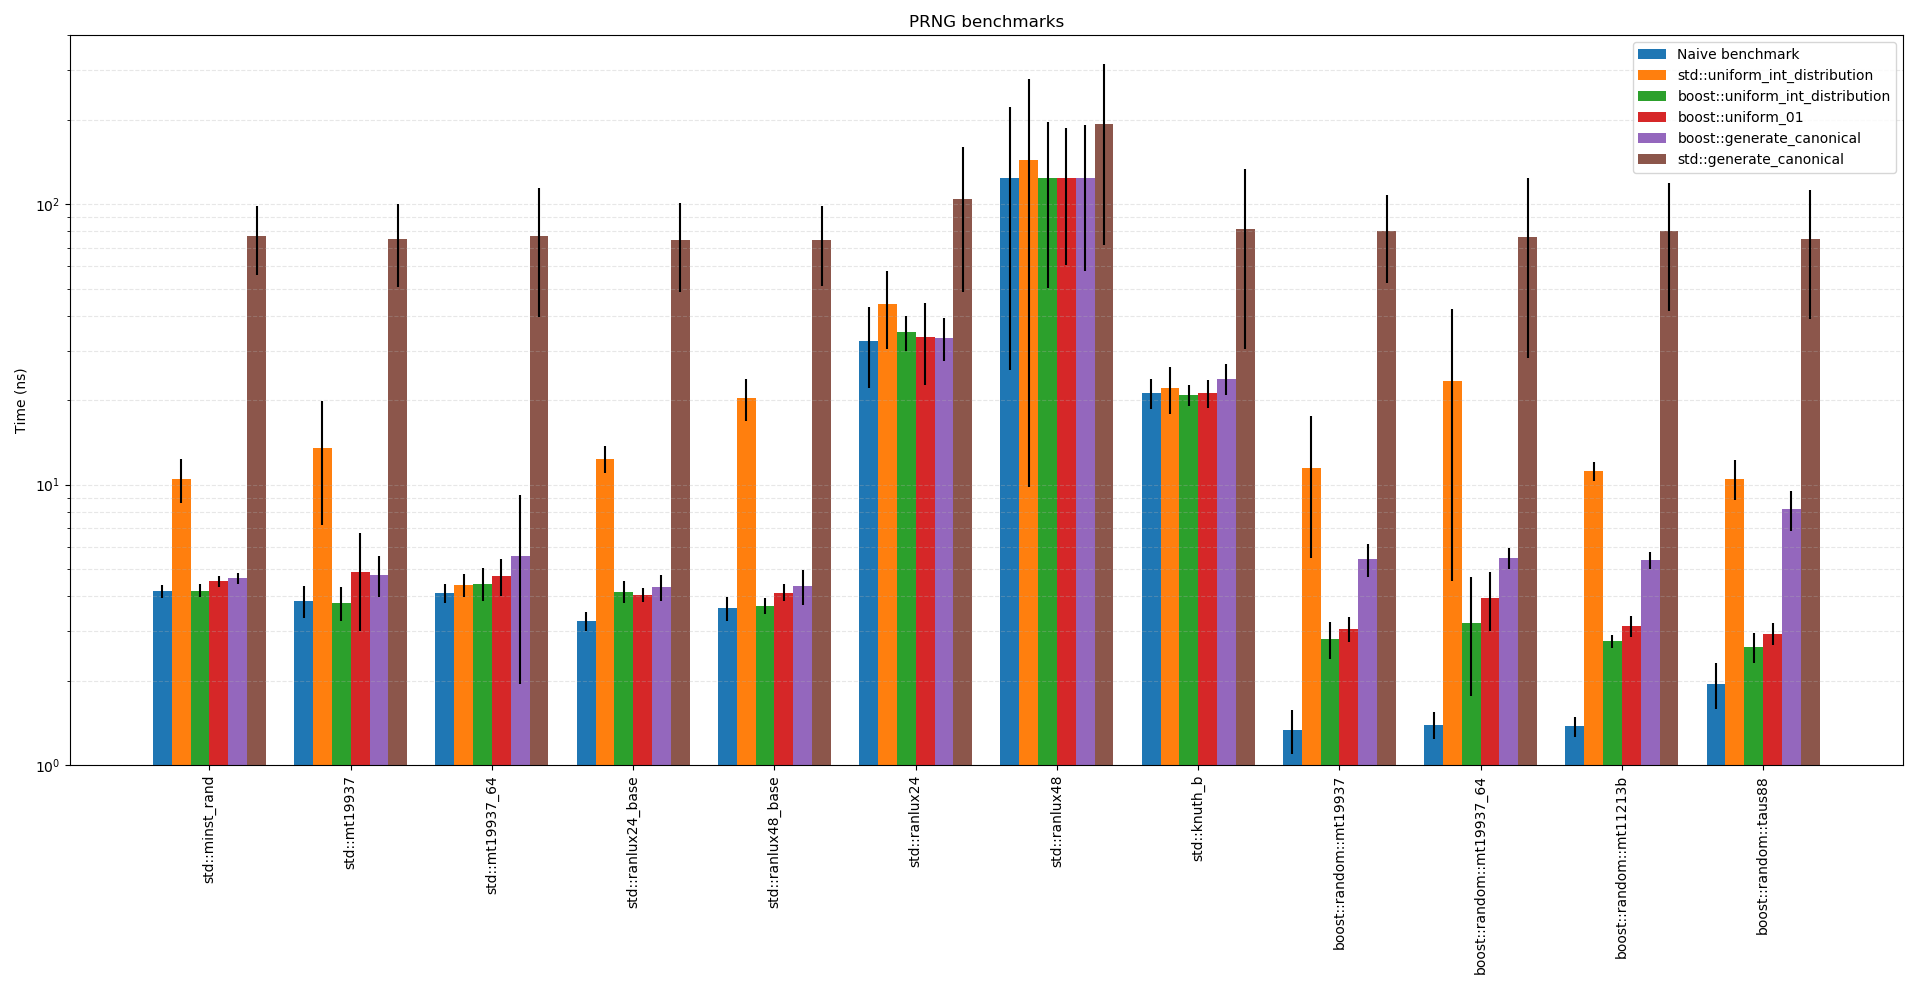
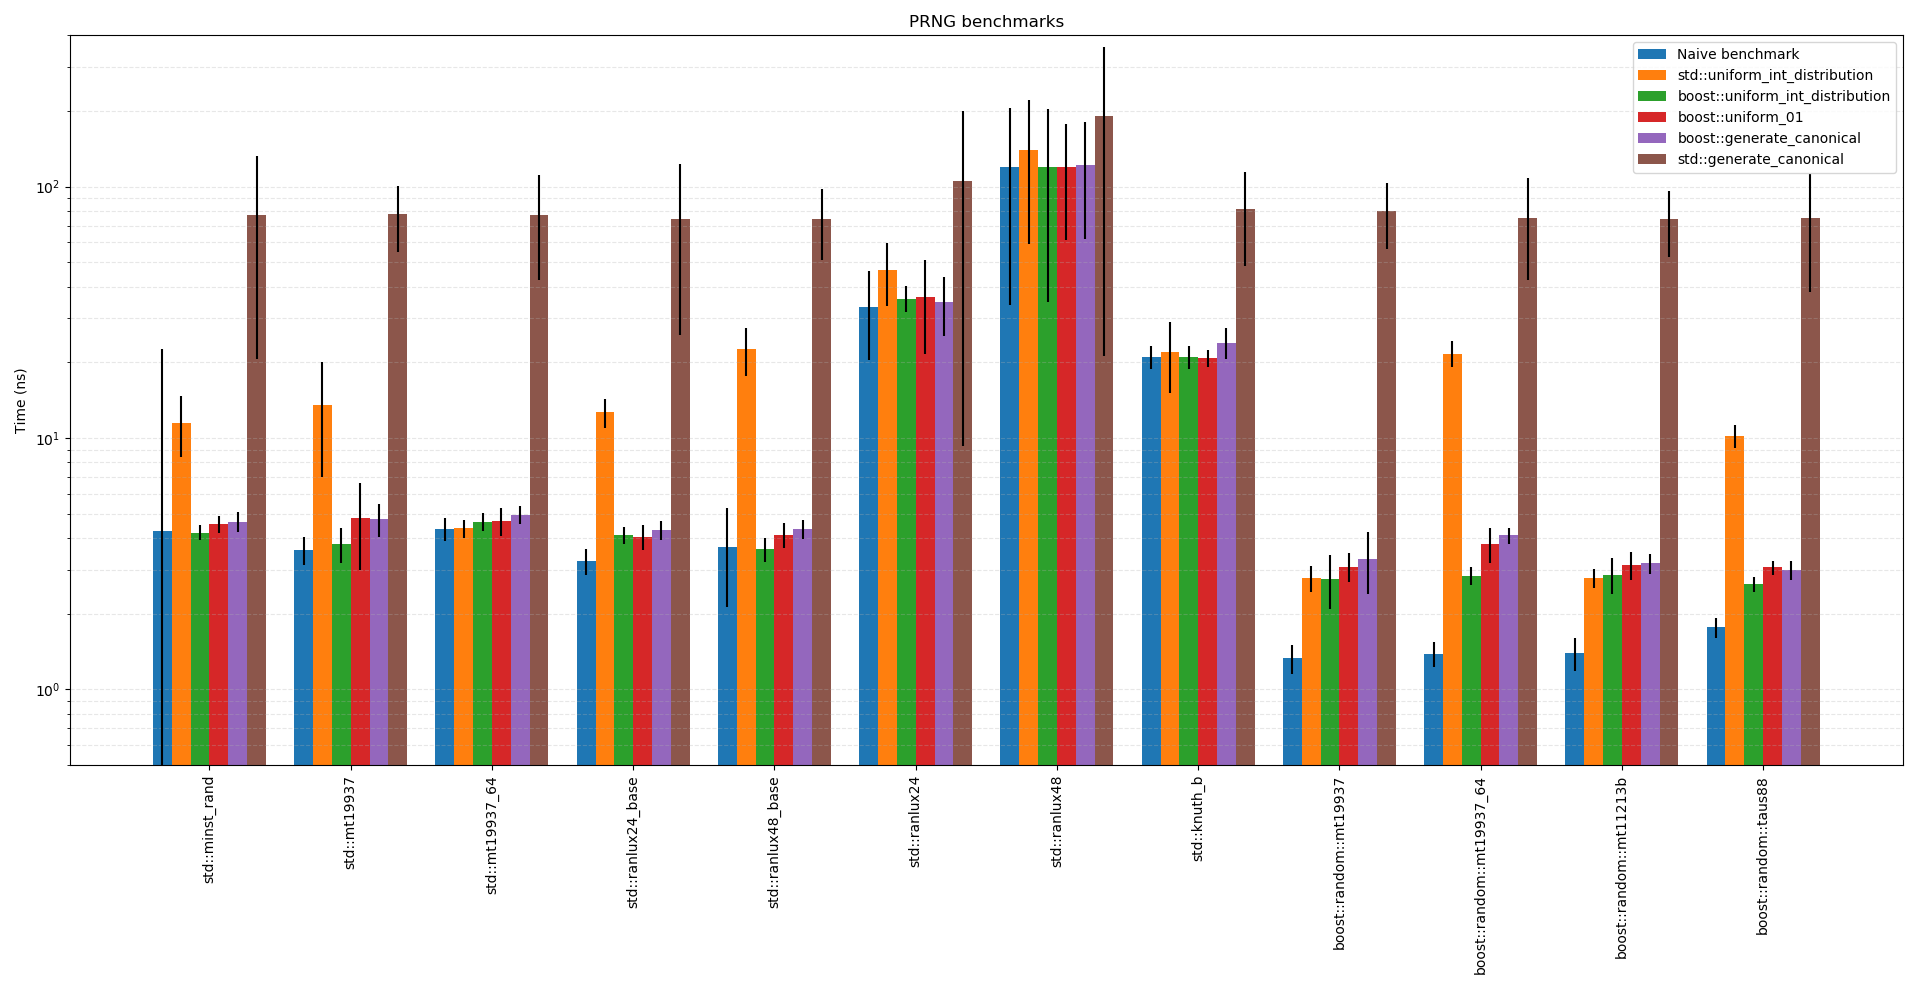
change CFLAGS to -O3

diff --git a/plot_results.py b/plot_results.py
@@ -33,7 +33,7 @@ def main(infile, output):
     axes.set_xticklabels(PRNGs)
     axes.tick_params(axis='x', labelrotation=90)
     axes.set_yscale('log')
-    axes.set_ylim(1, 400)
+    axes.set_ylim(0.5, 400) # in nanoseconds
     axes.legend()
 
     #plt.tight_layout(pad=0, w_pad=0, h_pad=0)

diff --git a/README.md b/README.md
@@ -19,7 +19,8 @@ glibc 2.30-2, boost 1.71.0:
 Smaller time means faster, but does not necessarily mean better. You should
 also consider the period of each generator and and its "randomness quality".
 
-Some comments about the Boost generators are available in [their docs](https://www.boost.org/doc/libs/1_71_0/doc/html/boost_random/reference.html#boost_random.reference.generators).
+Some comments about the Boost generators are available in
+[their docs](https://www.boost.org/doc/libs/1_71_0/doc/html/boost_random/reference.html#boost_random.reference.generators).
 
 
 ## Compilation and usage
